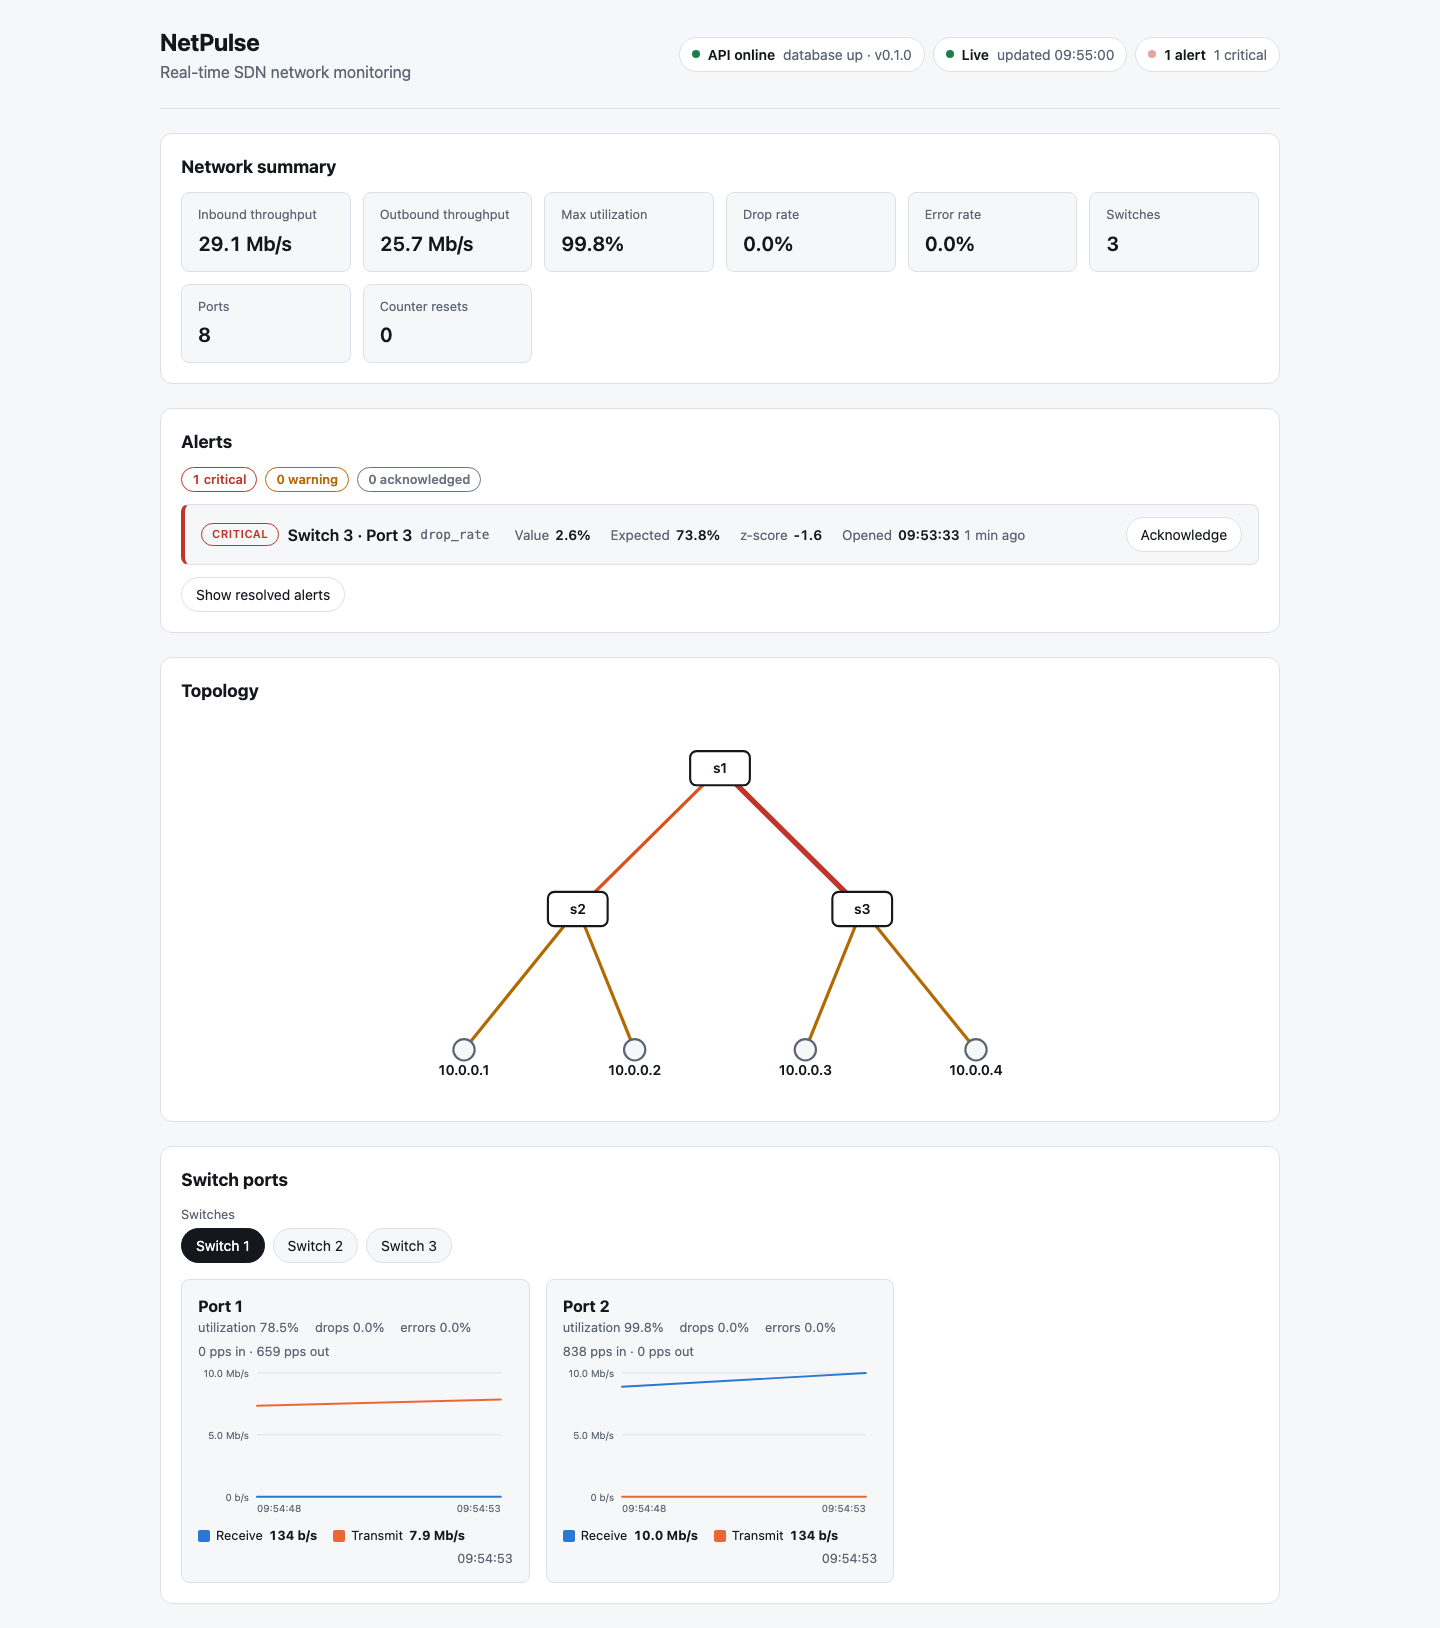
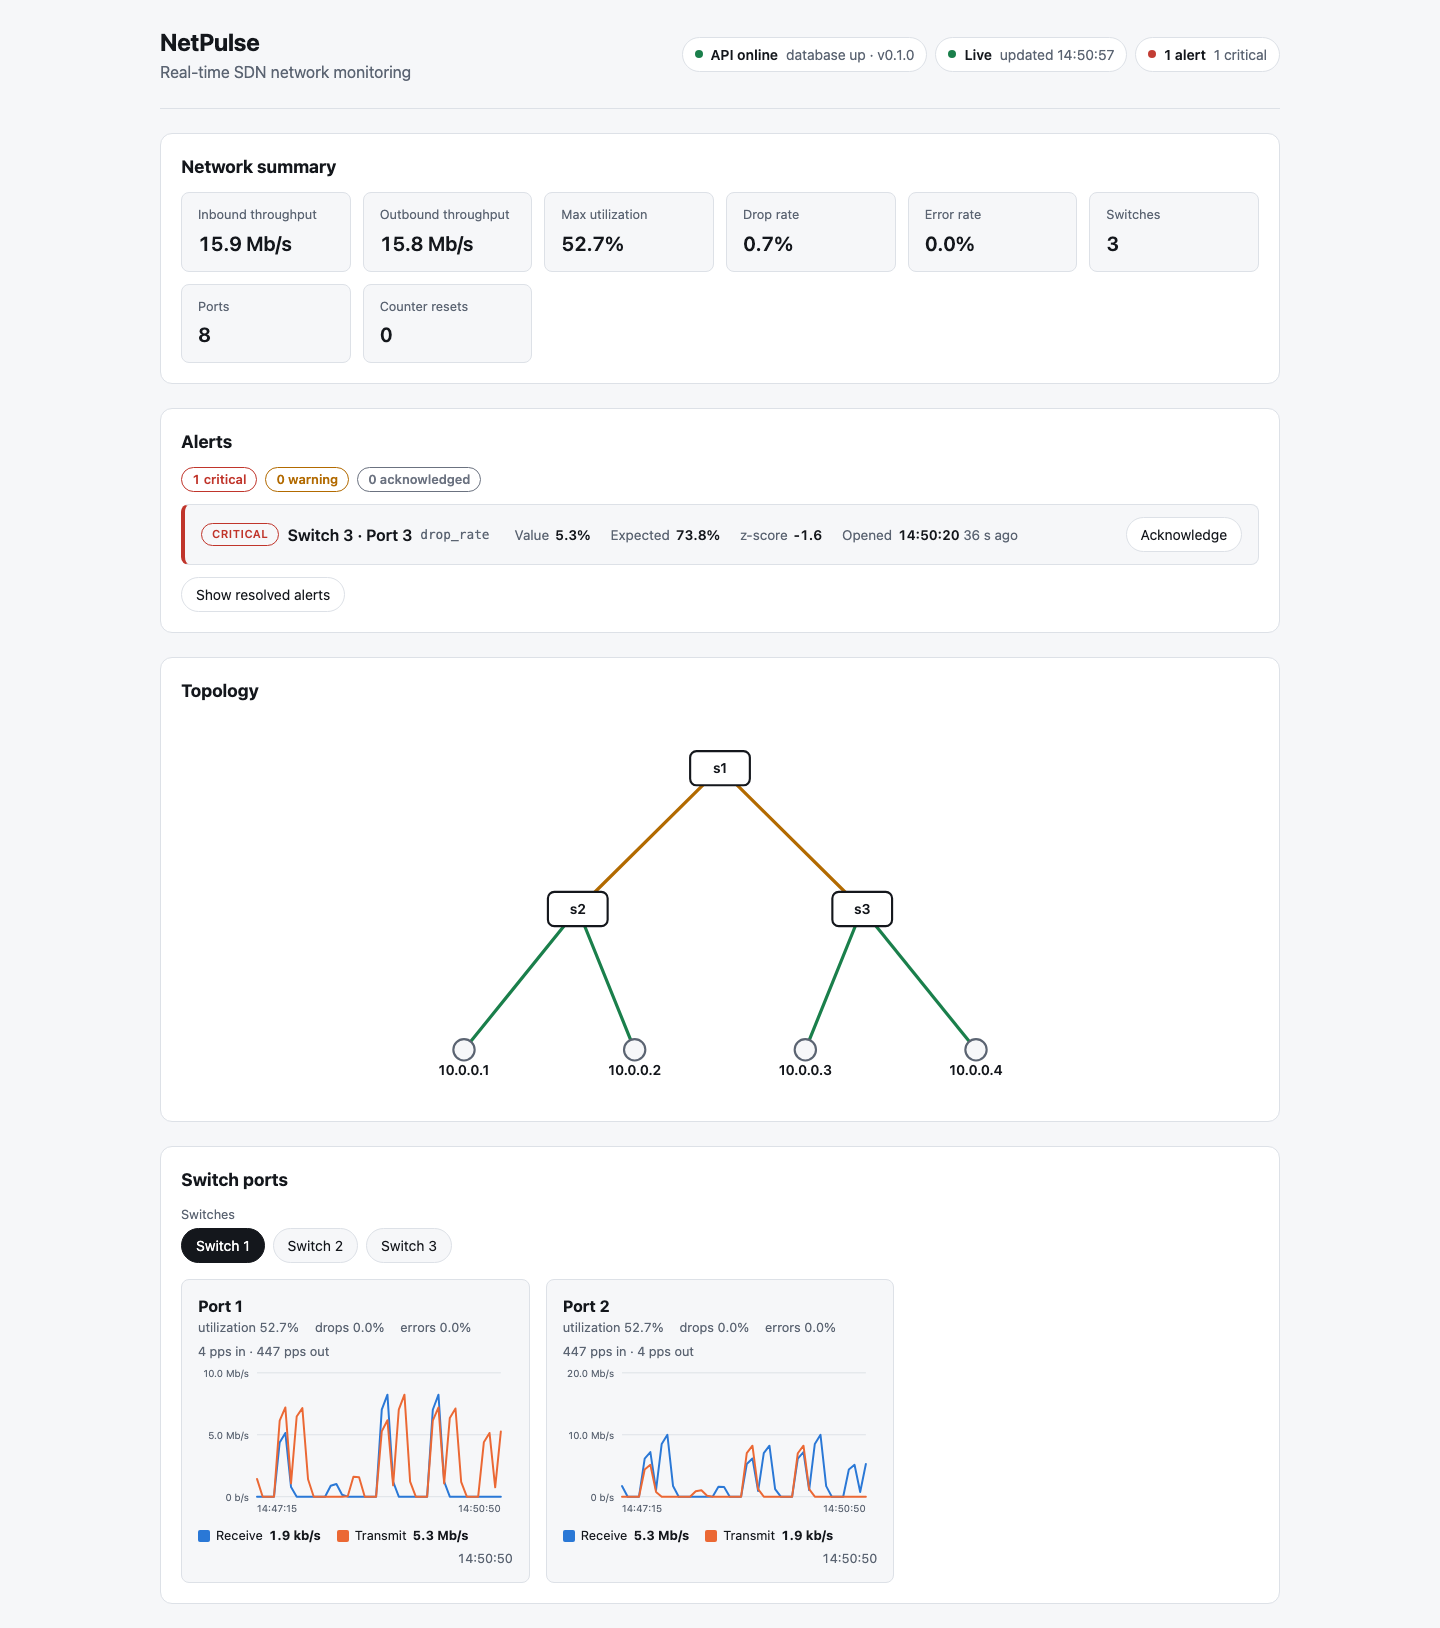
docs(release): add changelog, dashboard gif and close the roadmap for v1.0.0

diff --git a/README.md b/README.md
@@ -9,9 +9,9 @@ Real-time SDN network monitoring platform: streaming telemetry, network KPIs, an
 
 NetPulse emulates a software-defined network with Mininet, controls it with an OS-Ken OpenFlow controller, collects per-port statistics, stores them in TimescaleDB, derives KPIs from the counters, scores every port against its own baseline, raises alerts and streams KPIs and alerts to a React dashboard over REST and WebSockets. The emulated network injects faults on a schedule so there is always something to detect.
 
-![NetPulse dashboard right after a host-down fault: header badge with one critical alert, network summary cards, a single open critical drop_rate alert on switch 3 port 3 with its observed and expected values, z-score, opening time and an acknowledge button, a tree topology of three switches and four hosts labelled by IP address with links colored by utilization, and per-port receive and transmit throughput charts for the selected switch](docs/images/dashboard-alerts.png)
+![The dashboard during a host-down fault: a critical drop_rate alert opens on switch 3 port 3, stays open while the port counts drops and resolves about a minute after the fault clears](docs/images/dashboard-fault.gif)
 
-> **Status: v0.5, alert tuning, persistence and routing.** Alerts open only after three consecutive signals, so the iperf3 schedule no longer produces throughput noise; baselines survive collector restarts; the live feed follows a gapless sequence cursor; alert events are routed to webhooks by severity, metric and kind; resolved alerts are purged after a week. Next is v0.6, alert annotations, silence windows and correlation ([roadmap](#roadmap)).
+> **Status: v1.0.0, project complete.** NetPulse runs end to end from an emulated network to a live dashboard: faults injected on a schedule show up as counter changes, become KPIs, are scored against per-port baselines, open confirmed alerts that are stored, routed to webhooks and streamed to the browser, and resolve on their own once the fault clears. Every milestone is listed in the [changelog](CHANGELOG.md); possible extensions are listed in the [roadmap](#roadmap) and not planned.
 
 ## What the dashboard shows
 
@@ -24,6 +24,8 @@ NetPulse emulates a software-defined network with Mininet, controls it with an O
 | Switch ports | `kpis` frames | Per-port utilization, drop and error rates, packet rates and a receive/transmit throughput chart over the last 120 frames (about ten minutes) |
 
 Charts and the topology graph are hand-rolled SVG with no chart library. The first frame comes from `GET /api/v1/kpis/summary` and the first alert list from `GET /api/v1/alerts`; after that the client follows the WebSocket, reconnects with exponential backoff (1 s doubling to 30 s plus jitter) and pings every 15 s to keep proxies from idling the socket out. Host labels fall back to the switch port name facing the host (`s2-eth2`) until the host has sent its first ARP frame.
+
+![The full dashboard page while a host-down fault is open: header badges for API and database reachability, live status and one critical alert; network summary cards with throughput, utilization, drop and error rates, switches, ports and counter resets; the alerts panel with a single critical drop_rate alert on switch 3 port 3 showing its value, expected value, z-score, opening time and an acknowledge button; the tree topology of three switches and four hosts labelled by IP address with links colored by utilization; and the receive and transmit throughput charts of the two ports of switch 1](docs/images/dashboard-alerts.png)
 
 ## Architecture
 
@@ -96,7 +98,7 @@ docker compose up --build
 | 15 s and every 15 s | An iperf3 round starts; during rounds the 10 Mbit/s links reach `max_utilization` 1.0 and the summary throughput peaks around 46 Mbit/s |
 | about 60 s | Baselines finish warming up (12 samples at 5 s) on a fresh database; a restart reloads the stored baselines and skips the warm-up. Scoring starts, but an alert needs three consecutive signals on top of that, so nothing opens before about 70 s plus the confirmation |
 | 90 s, then every 120 s | A fault starts and lasts 30 s; the network logs `*** Fault: ...` and `*** Fault cleared`, and `loss` and `host_down` alternate across the links |
-| during a `host_down` fault | A `critical` `drop_rate` alert with value `1.0` opens on the switch port facing the downed host 16 to 18 s after the fault starts (three signals at 5 s polling), with `opened_at` at the first signal; it resolves about 65 s after the fault clears |
+| during a `host_down` fault | A `critical` `drop_rate` alert with value `1.0` opens on the switch port facing the downed host 13 to 18 s after the fault starts (three signals at 5 s polling), with `opened_at` at the first signal; it resolves 63 to 66 s after the fault clears, as the GIF above shows |
 | during a `loss` fault and iperf3 rounds | Usually nothing: `netem` loss only shows as a throughput deviation, and the 1 Mbit/s floor plus the confirmation keep the iperf3 steps and 20 % loss below the bar. The v0.5 smoke saw no throughput alert in ten minutes and at most one alert open at a time |
 
 To see throughput alerts again, lower `COLLECTOR_DETECTION_MIN_BPS_DELTA`, set `COLLECTOR_ALERT_OPEN_AFTER_SIGNALS=1` or raise `NETWORK_FAULT_LOSS_PERCENT`; see [anomaly detection](#anomaly-detection-and-alerts) for the knobs.
@@ -393,12 +395,21 @@ Quality bar: no code comments, no `any` or untyped Python, zero lint and type er
 
 | Version | Scope | State |
 | --- | --- | --- |
-| v0.1 | Base structure: every layer scaffolded, wired, typed, tested and containerized | Merged (PR #1) |
-| v0.2 | Telemetry ingestion: SQL migrations, `port_stats` hypertable with compression and retention, 1-minute continuous aggregate, idempotent batched writes with retry, stats query endpoint, integration tests in CI | Merged (PR #2) |
-| v0.3 | KPIs and live dashboard: KPI domain with counter-reset handling, history, switch and summary endpoints, WebSocket feed with heartbeat and backpressure, LLDP topology, live React dashboard, shaped links with scheduled iperf3 traffic | Merged (PR #3) |
-| v0.4 | Anomaly detection and alerting: EWMA baselines with z-scores and floors, alert lifecycle with escalation, resolution and cooldown, `alerts` table, list and acknowledge endpoints, alert frames over the WebSocket, webhook notifier, dashboard alerts panel, scheduled `loss` and `host_down` faults, hosts labelled by IP, OpenFlow port speed | Merged (PR #4) |
-| v0.5 | Alert tuning, persistence and routing: alerts confirmed by consecutive signals, detection floors as settings with a 1 Mbit/s throughput floor, `seq` cursor serialized by an advisory lock, baselines persisted every cycle and reloaded at startup, alert routes by severity, metric and event kind, retention of resolved alerts, cleanup of vanished ports | Delivered on `feat/alert-tuning`, PR pending |
-| v0.6 | Alert annotations and silence windows, multi-metric and multi-port correlation, Grafana and Prometheus export | Next |
+| v0.1 | Base structure: every layer scaffolded, wired, typed, tested and containerized | Done ([PR #1](https://github.com/wpilares/netpulse/pull/1)) |
+| v0.2 | Telemetry ingestion: SQL migrations, `port_stats` hypertable with compression and retention, 1-minute continuous aggregate, idempotent batched writes with retry, stats query endpoint, integration tests in CI | Done ([PR #2](https://github.com/wpilares/netpulse/pull/2)) |
+| v0.3 | KPIs and live dashboard: KPI domain with counter-reset handling, history, switch and summary endpoints, WebSocket feed with heartbeat and backpressure, LLDP topology, live React dashboard, shaped links with scheduled iperf3 traffic | Done ([PR #3](https://github.com/wpilares/netpulse/pull/3)) |
+| v0.4 | Anomaly detection and alerting: EWMA baselines with z-scores and floors, alert lifecycle with escalation, resolution and cooldown, `alerts` table, list and acknowledge endpoints, alert frames over the WebSocket, webhook notifier, dashboard alerts panel, scheduled `loss` and `host_down` faults, hosts labelled by IP, OpenFlow port speed | Done ([PR #4](https://github.com/wpilares/netpulse/pull/4)) |
+| v0.5 | Alert tuning, persistence and routing: alerts confirmed by consecutive signals, detection floors as settings with a 1 Mbit/s throughput floor, `seq` cursor serialized by an advisory lock, baselines persisted every cycle and reloaded at startup, alert routes by severity, metric and event kind, retention of resolved alerts, cleanup of vanished ports | Done ([PR #5](https://github.com/wpilares/netpulse/pull/5)) |
+| v1.0 | Release: retention of resolved alerts independent of detection, every package at 1.0.0, changelog, dashboard GIF, roadmap closed | Done ([PR #6](https://github.com/wpilares/netpulse/pull/6)) |
+
+### Possible extensions
+
+Not planned; listed so the boundary of the project is explicit.
+
+- Alert annotations and silence windows: a user note on an alert and a time window in which a key does not open alerts.
+- Multi-metric and multi-port correlation: one alert for a fault that moves several metrics or both ends of a link.
+- Grafana or Prometheus export: a `/metrics` endpoint or a Grafana data source over the stored KPIs.
+- Switch-side drop faults via OpenFlow meters, which would need the controller to count meter drops because Open vSwitch does not report them in the port counters.
 
 ## License
 

diff --git a/CHANGELOG.md b/CHANGELOG.md
@@ -1,0 +1,95 @@
+# Changelog
+
+All notable changes to NetPulse, in [Keep a Changelog](https://keepachangelog.com/en/1.1.0/) form. Versions before 1.0.0 were milestones delivered as one pull request each; 1.0.0 is the closed portfolio release, after which only possible extensions remain ([README roadmap](README.md#roadmap)).
+
+## [1.0.0] - 2026-10-27
+
+### Added
+
+- `CHANGELOG.md` and a dashboard GIF in the README showing a `host_down` fault opening and resolving a `drop_rate` alert.
+- Roadmap closed: every milestone marked done, possible extensions listed as not planned.
+
+### Changed
+
+- Every package reports `1.0.0`: `GET /health`, `GET /api/v1/info` and the WebSocket `hello` frame carry the new version.
+- Resolved alerts are purged by a `RetentionObserver` composed next to `DetectionObserver`, so the purge keeps running when `COLLECTOR_DETECTION_ENABLED=false` whenever the collector writes to TimescaleDB.
+
+## [0.5.0] - 2026-10-27
+
+### Added
+
+- Alert confirmation: a key stays `pending` until `NETPULSE_COLLECTOR_ALERT_OPEN_AFTER_SIGNALS` (3) consecutive signals, so 10 s iperf3 bursts never open an alert; `opened_at` keeps the first signal time.
+- Alert routing in `netpulse_core.routing`: `COLLECTOR_ALERT_ROUTES` adds routes filtered by severity, metric and event kind, each with its own webhook; `COLLECTOR_ALERT_WEBHOOK_URL` stays the `default` route.
+- Baselines persisted every cycle in `alert_baselines` and reloaded at startup, so a collector restart skips the warm-up.
+- `alerts.seq` sequence cursor for the live feed; the broadcaster fetches rows above the last `seq` it saw.
+- Hourly purge of resolved alerts older than `COLLECTOR_ALERT_RETENTION_DAYS` (7).
+- ADR 0009 on confirmation, persisted baselines, the sequence cursor and routing.
+
+### Changed
+
+- Detection floors and the confirmation count are `NETPULSE_COLLECTOR_*` settings; the throughput floor `min_bps_delta` defaults to 1 Mbit/s in the collector.
+- Open alerts of ports absent for 60 cycles are resolved and notified, and their baselines are deleted.
+
+### Fixed
+
+- `seq` is assigned in commit order: the collector apply and the API acknowledge transactions take `pg_advisory_xact_lock`, closing the race between an acknowledgement and a collector cycle.
+- Empty route filters are rejected and webhook URLs validated at startup instead of creating a route that matches nothing.
+
+## [0.4.0] - 2026-10-26
+
+### Added
+
+- Anomaly detection in `netpulse_core.anomaly`: EWMA baseline per `(switch, port, metric)`, z-scores with sigma floors, absolute floors for `drop_rate` and `error_rate`, warm-up, counter resets skipped.
+- Alert lifecycle in `netpulse_core.alerts`: one open alert per key, escalation, refresh, resolution after silence, cooldown suppression.
+- `alerts` table, `GET /api/v1/alerts`, `POST /api/v1/alerts/{id}/ack` and `alerts` frames over `/ws/telemetry`, with the open-alert snapshot sent to every new subscriber.
+- Dashboard alerts panel with severity badges, acknowledge with optimistic rollback, resolved toggle and a header badge.
+- Scheduled fault injection: `loss` and `host_down` faults alternate across the links; a peer floods the downed host so the switch port counts real drops.
+- Hosts discovered from ARP and labelled by IPv4; OpenFlow `curr_speed` exposed per port with `NETPULSE_API_LINK_CAPACITY_SOURCE=openflow` as an opt-in.
+- ADR 0008 on detection, the alert lifecycle and fault injection.
+
+### Fixed
+
+- `drop_rate` and `error_rate` are measured against attempted frames, so a port that only drops reads `1.0` instead of `null`.
+- The `opened` event is an idempotent upsert on the partial unique index and the webhook URL stays out of the logs.
+
+## [0.3.0] - 2026-10-26
+
+### Added
+
+- KPIs in `netpulse_core.kpi` from consecutive samples: throughput, packet rate, drop and error rate, utilization, counter resets as `null` rates (ADR 0007).
+- `GET /api/v1/switches/{dpid}/ports/{port_no}/kpis`, `GET /api/v1/switches/{dpid}/kpis` and `GET /api/v1/kpis/summary`.
+- Live `kpis` frames over `/ws/telemetry` with `heartbeat`, `store_unavailable` and slow consumers closed with `1013`.
+- Topology discovery: LLDP links in the controller, `GET /api/v1/topology` with nodes and edges.
+- React dashboard: summary cards, SVG topology, per-port throughput charts, reconnecting WebSocket client with exponential backoff.
+- Links shaped to 10 Mbit/s with scheduled iperf3 UDP rounds between hosts.
+
+### Fixed
+
+- TX checksum offload disabled on every veth so hosts stop dropping TCP segments under the Open vSwitch userspace datapath.
+- Reserved OpenFlow ports such as `LOCAL` are left out of per-switch KPIs and the summary.
+
+## [0.2.0] - 2026-10-20
+
+### Added
+
+- dbmate SQL migrations: `port_stats` hypertable with 1-day chunks, compression after a day and 7-day retention; `port_stats_1m` continuous aggregate with 90-day retention; one-shot `migrate` Compose service (ADR 0005, ADR 0006).
+- `TimescalePortStatsRepository` with batched idempotent inserts and a retrying decorator with bounded exponential backoff.
+- `GET /api/v1/switches/{dpid}/ports/{port_no}/stats` at `raw` or `1m` resolution over a time range.
+- Integration tests against a real TimescaleDB (`make test-integration`) and a CI `integration` job.
+
+## [0.1.0] - 2026-10-20
+
+### Added
+
+- Monorepo with a uv workspace (Python 3.14), a standalone OS-Ken controller project on Python 3.13 and a Bun web app (ADR 0001 to 0004).
+- Mininet tree topology of three switches and four hosts in a privileged container, connected to the OS-Ken controller.
+- Controller REST endpoints `/health`, `/switches` and `/stats/ports`; collector polling loop behind `PortStatsSource` and `PortStatsRepository` ports.
+- FastAPI service with `/health`, the `/api/v1` router and the `/ws/telemetry` WebSocket; React dashboard shell behind nginx.
+- Shared frozen pydantic models in `netpulse-core`; ruff, mypy strict, pytest, Biome, Vitest and GitHub Actions CI.
+
+[1.0.0]: https://github.com/wpilares/netpulse/pull/6
+[0.5.0]: https://github.com/wpilares/netpulse/pull/5
+[0.4.0]: https://github.com/wpilares/netpulse/pull/4
+[0.3.0]: https://github.com/wpilares/netpulse/pull/3
+[0.2.0]: https://github.com/wpilares/netpulse/pull/2
+[0.1.0]: https://github.com/wpilares/netpulse/pull/1
